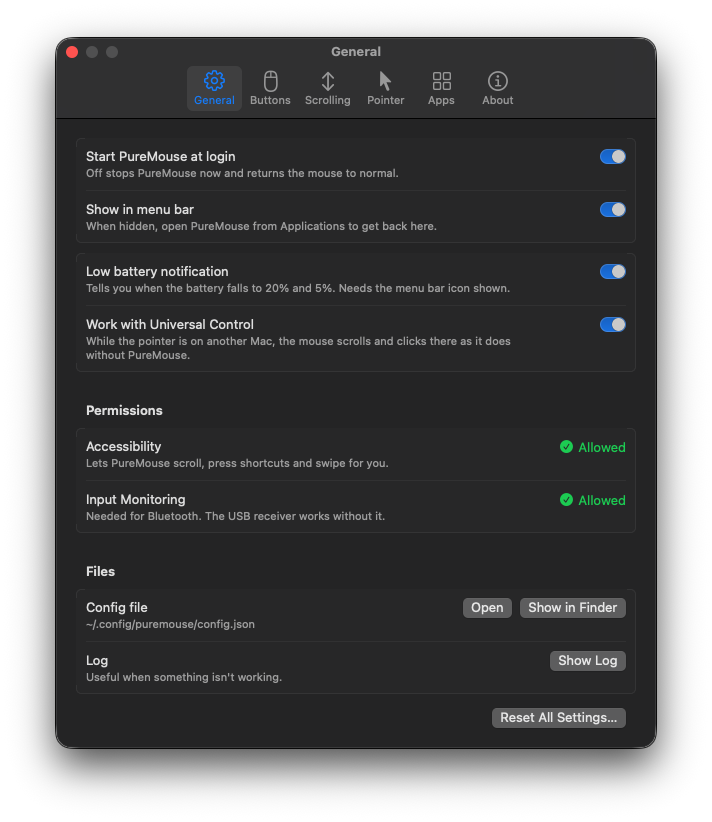
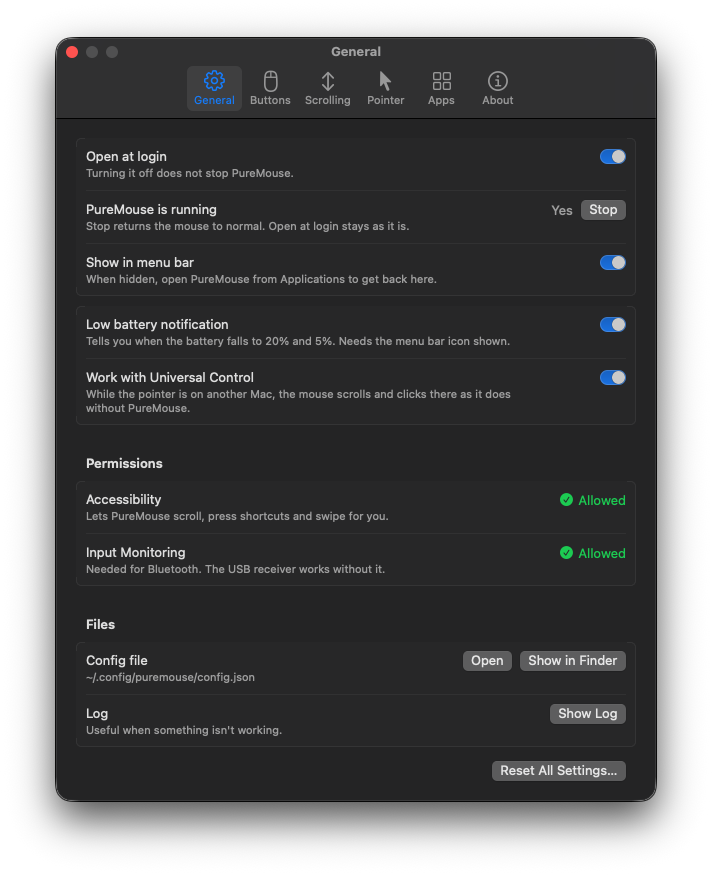
README: retake the General screenshots for Open at login and add the About pane

diff --git a/README.md b/README.md
@@ -103,7 +103,7 @@ PureMouse from Applications opens Settings too, even with the menu bar icon hidd
 </p>
 
 <details>
-<summary>More settings: scrolling, general, apps and pointer</summary>
+<summary>More settings: scrolling, general, apps, pointer and about</summary>
 <p align="center">
   <picture>
     <source media="(prefers-color-scheme: dark)" srcset="docs/images/settings-scrolling-dark.png">
@@ -120,6 +120,10 @@ PureMouse from Applications opens Settings too, even with the menu bar icon hidd
   <picture>
     <source media="(prefers-color-scheme: dark)" srcset="docs/images/settings-pointer-dark.png">
     <img src="docs/images/settings-pointer-light.png" width="400" align="top" alt="Pointer settings: resolution and DPI presets">
+  </picture>
+  <picture>
+    <source media="(prefers-color-scheme: dark)" srcset="docs/images/settings-about-dark.png">
+    <img src="docs/images/settings-about-light.png" width="400" align="top" alt="About settings: version, links, Check for Updates and a Support PureMouse link">
   </picture>
 </p>
 </details>
